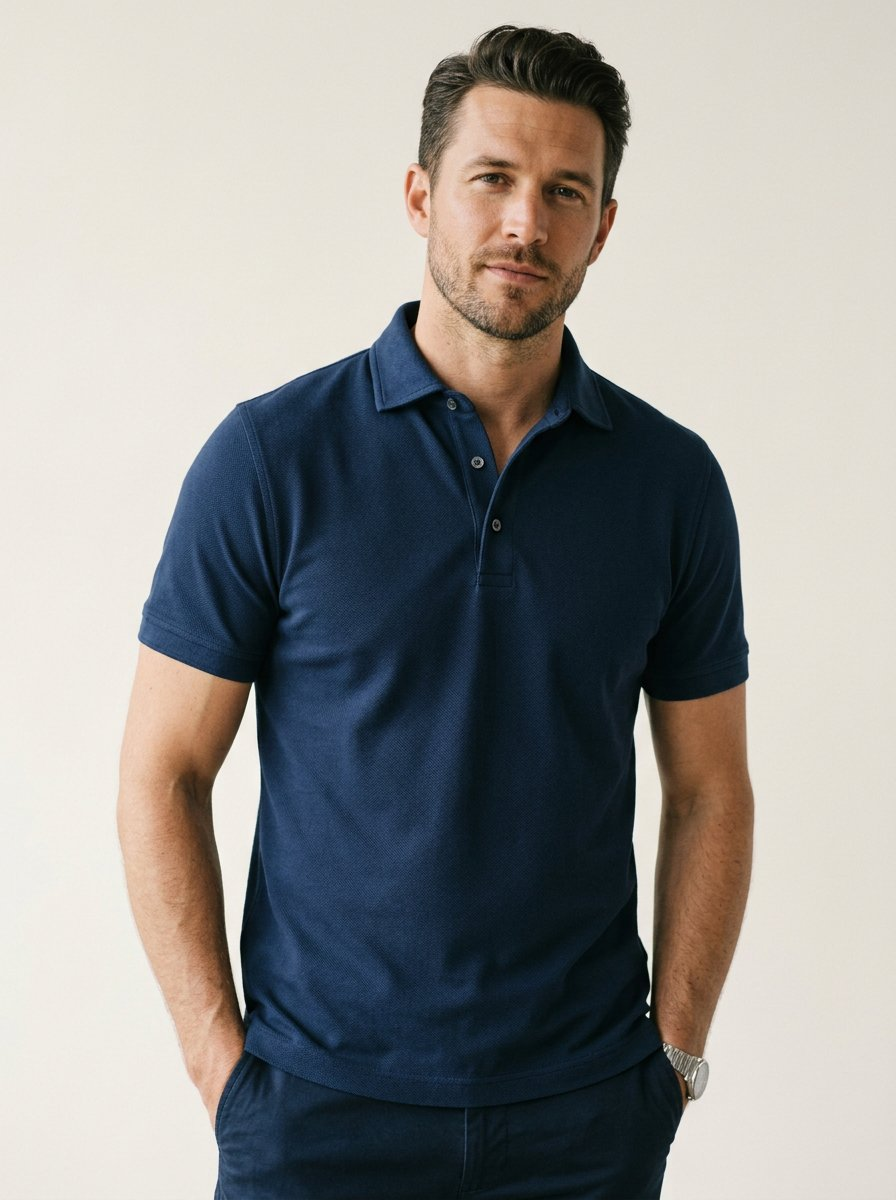
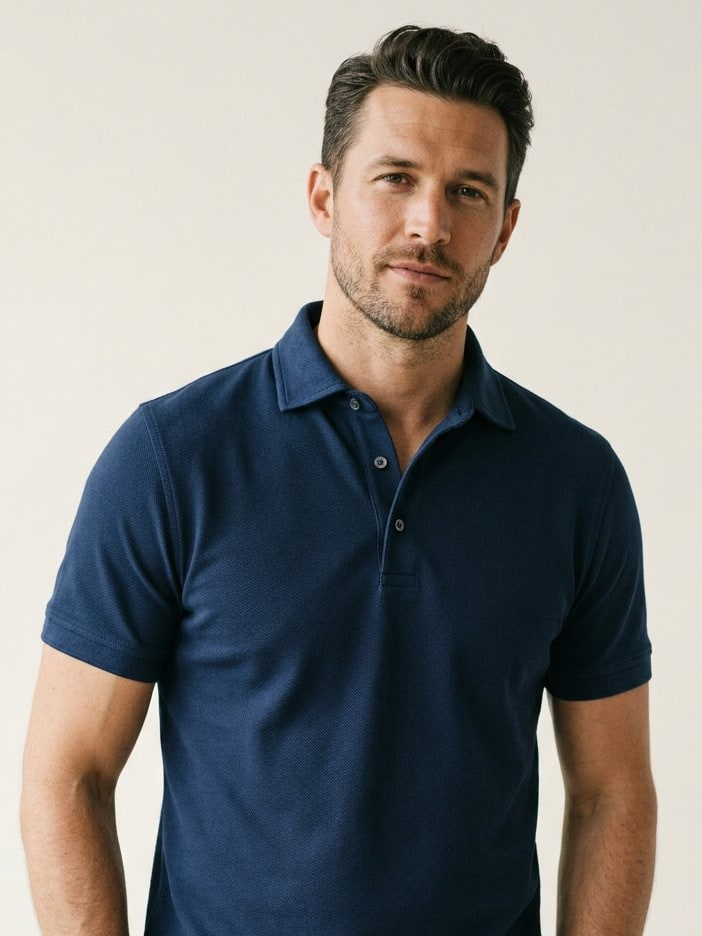
media: crop the 8 demo frames that showed unsold accessories
Screening found a wristwatch, belt or footwear in eight frames. Each is now cropped
from the untouched original to a 3:4 window that keeps the garment whole and puts the
accessory out of frame, and every result was looked at rather than assumed.

This removes a merchandising claim, not the need for a re-shoot: those eight are now
477-702px wide, so the docs record the re-shoot as owed and the alt text keeps saying
these are unverified demo photographs.

diff --git a/docs/product-imagery.md b/docs/product-imagery.md
@@ -98,14 +98,24 @@ match the product. Verdicts below are from that review.
 | `pima-pique-polo-bone.jpg` | ✓ bone polo | none | ship |
 | `two-ply-poplin-shirt.jpg` | ✓ white poplin shirt | none | ship |
 | `hero-editorial.jpg` | ✓ linen shirt, campaign band | none | ship |
-| `brushed-oxford-shirt.jpg` | ✓ light-blue oxford | **wristwatch + belt** | re-shoot |
-| `brushed-oxford-shirt-navy.jpg` | ✓ navy oxford | **belt** | re-shoot |
-| `essential-combed-tee.jpg` | ✓ black tee | **wristwatch** | re-shoot |
-| `fine-gauge-knit-polo.jpg` | ✓ charcoal polo | **wristwatch + belt** | re-shoot |
-| `pima-pique-polo.jpg` | ✓ navy polo | **wristwatch** | re-shoot |
-| `pleated-smart-trouser.jpg` | ✓ grey trousers | **belt + white sneakers** | re-shoot |
-| `slim-cotton-chino.jpg` | ✓ sand chino | **brown loafers** | re-shoot |
-| `straight-leg-denim.jpg` | ✓ indigo denim | **belt + brown boots** | re-shoot |
+| `brushed-oxford-shirt.jpg` | ✓ light-blue oxford | wristwatch + belt | **cropped**, re-shoot owed |
+| `brushed-oxford-shirt-navy.jpg` | ✓ navy oxford | belt | **cropped**, re-shoot owed |
+| `essential-combed-tee.jpg` | ✓ black tee | wristwatch | **cropped**, re-shoot owed |
+| `fine-gauge-knit-polo.jpg` | ✓ charcoal polo | wristwatch + belt | **cropped**, re-shoot owed |
+| `pima-pique-polo.jpg` | ✓ navy polo | wristwatch | **cropped**, re-shoot owed |
+| `pleated-smart-trouser.jpg` | ✓ grey trousers | belt + white sneakers | **cropped**, re-shoot owed |
+| `slim-cotton-chino.jpg` | ✓ sand chino | brown loafers | **cropped**, re-shoot owed |
+| `straight-leg-denim.jpg` | ✓ indigo denim | belt + brown boots | **cropped**, re-shoot owed |
+
+### What "cropped" means here
+
+Those eight frames were cropped from the untouched originals to a 3:4 window that excludes the
+accessory line — waist cropped out above a belt, or legs cropped out below a shoe — and re-checked by
+looking at the result. The garment is still fully in frame and still the only thing in frame. The
+originals are recoverable: this is a lossless-in-meaning, lossy-in-pixels stopgap, and the crops reduced
+those eight files to 477–702px wide, so on a 2× display the PDP frame will look slightly soft. **A real
+re-shoot at ≥1024×1365 is still owed for all eight**; cropping only removed the merchandising claim, it
+did not make these verified product photography, and the alt text still says so.
 
 **No frame is wrong about the garment** — colour and item match the listing in all 19 — which is the
 thing the previous build got wrong. The eight flagged frames are a *styling* problem: they sell a look
